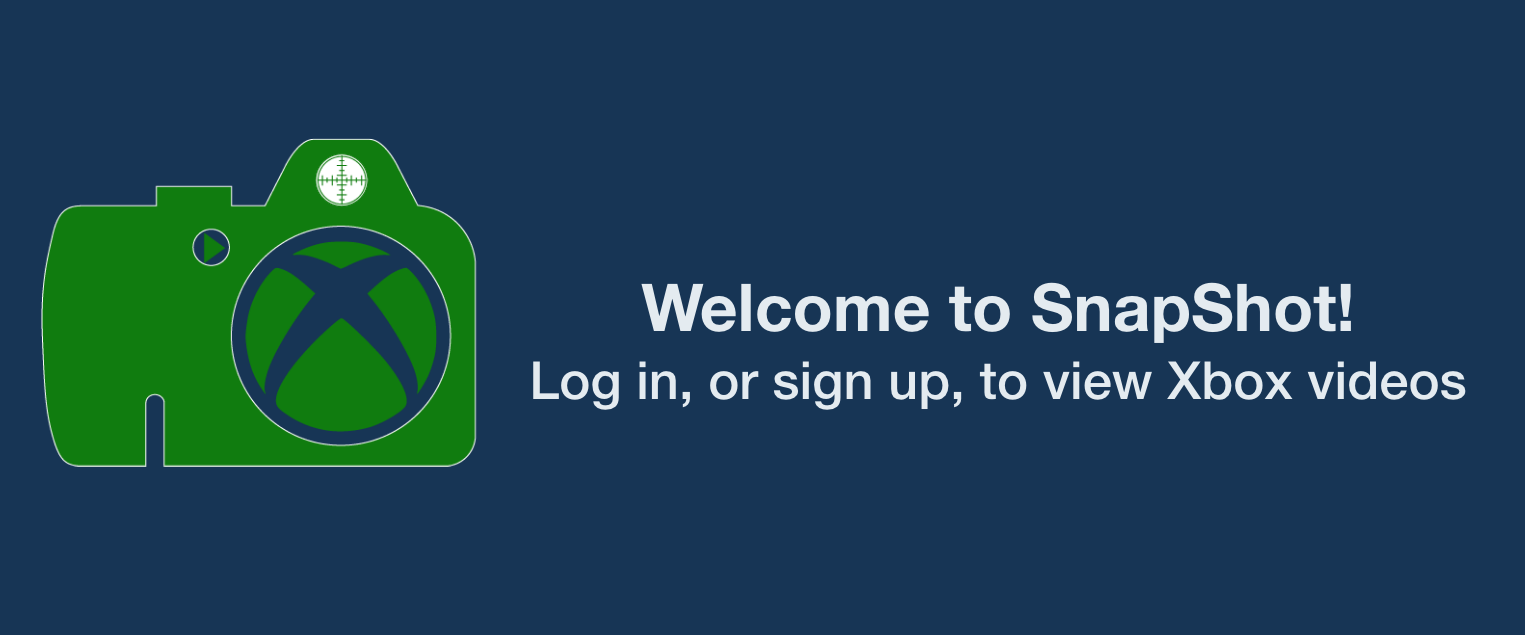
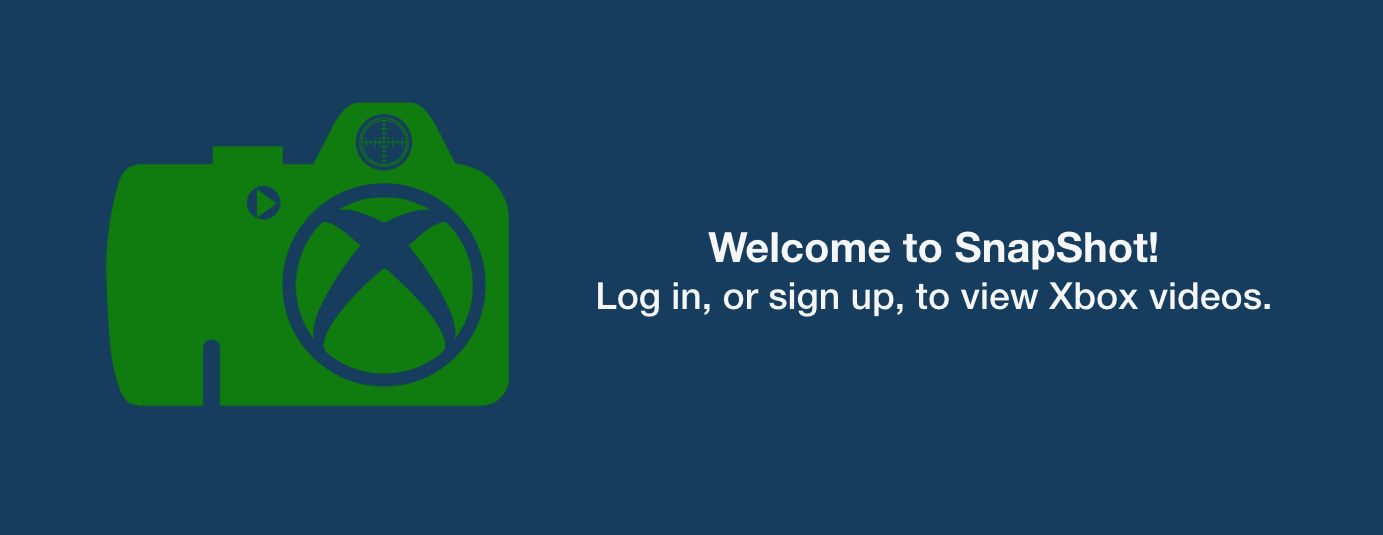
updated styling to welcome page, videos, and nav bar

Changed region(s): [[0.0, 0.1794, 0.9638, 0.7776]]

diff --git a/app/scripts/components/followers.jsx b/app/scripts/components/followers.jsx
@@ -41,7 +41,7 @@ var GamertagErrorModal = React.createClass({
   },
   closeModal: function(e) {
     this.setState({modalIsOpen: false});
-    // localStorage.setItem('loggedIn', this.state.username);
+
   },
   render: function(){
     return (
@@ -88,7 +88,7 @@ var UserDeletedErrorModal = React.createClass({
   },
   closeModal: function(e) {
     this.setState({modalIsOpen: false});
-    // localStorage.setItem('loggedIn', this.state.username);
+
   },
   render: function(){
     return (
@@ -155,15 +155,13 @@ var FollowerComponent = React.createClass({
   },
 
   componentWillReceiveProps: function(nextProps){
-    // console.log(nextProps.followers);
     this.setState({followers: nextProps.followers});
   },
   render: function(){
     var self = this;
     var followers = this.state.followers;
-    // console.log('map', followers);
+
     var followerList = followers.map(function(follower){
-      // console.log(follower);
       return (
         <div className='col-sm-6' key={follower.cid}>
           <a onClick={function(){self.props.handleFollower(follower.get('gamertag'))}} href={'#followers/' + follower.attributes.xuid + '/videos/'} className='' >
@@ -187,7 +185,7 @@ var FollowersContainer = React.createClass({
   getInitialState: function(){
     var followerCollection = new model.FollowerCollection;
     var objectId = JSON.parse(localStorage.getItem('user')).objectId;
-    // console.log('state', followerCollection);
+
     return {
       followerCollection: followerCollection,
       showForm: false,
@@ -206,14 +204,11 @@ var FollowersContainer = React.createClass({
     });
   },
 
-  parseSetup: function(token){
+  parseSetup: function(){
     $.ajaxSetup({
       beforeSend: function(xhr){
         xhr.setRequestHeader('X-Parse-Application-Id', 'kmbparse');
         xhr.setRequestHeader('X-Parse-REST-API-Key', 'kylesb');
-        // if(token){
-        //   xhr.setRequestHeader('X-Parse-Session-Token', token);
-        // }
       }
     });
   },
@@ -232,31 +227,7 @@ var FollowersContainer = React.createClass({
       self.setState({followerCollection: followerCollection});
 
     });
-// console.log(followerCollection);
-
-    // var self = this;
-    // var token = localStorage.getItem('token');
-    // var collection = this.state.followerCollection;
-    // var user = JSON.parse(localStorage.getItem('user')).objectId;
-    // console.log(user);
-    // this.setState({user : user});
-
-
-    // console.log(this.state.followerCollection);
-    // this.state.followerCollection.fetch().parseWhere('user', 'User', )
-    // this.setState({followerCollection: this.state.followerCollection});
-    // console.log('state', this.state.followerCollection);
   },
-
-  // componentDidMount: function(){
-  //  var self = this;
-    // var followerCollection = this.state.followerCollection;
-    //
-    //
-    // followerCollection.fetch().then(function(){
-    //   self.setState({followerCollection: followerCollection});
-    // });
-  // },
 
   handleToggleForm: function(e){
     e.preventDefault();

diff --git a/app/scripts/components/profile.jsx b/app/scripts/components/profile.jsx
@@ -71,30 +71,18 @@ var ProfileContainer = React.createClass({
     $.ajax(options).then(function(response) {
       console.log(response);
     })
-    // $.ajax({
-    //   url:"https://kevinbrowntown.herokuapp.com/users/" + this.state.objectId,
-    //   type: "PUT",
-    //   dataType: "json",
-    //   data: dataString,
-    //   "headers": {
-    //   "Content-Type": "application/json",
-    //   "X-Parse-REST-API-Key": "kylesb",
-    //   "X-Parse-Application-Id": "kmbparse",
-    //   "X-Parse-Session-Token": this.state.token
-    // }})
-    // .then(function(response){
-    //   console.log(response);
-    // })
   },
   render: function(){
     return (
       <TemplateComponent>
-        <img src={this.state.profilePic} alt="Profile Picture" />
-        <form onSubmit={this.handleUpdate}>
-          <input onChange={this.handleName} value={this.state.name}></input>
-          <input onChange={this.handleGamertag} value={this.state.gamertag}></input>
-          <button type="submit" className="btn btn-success">Update Profile</button>
-        </form>
+        <div className="friends-wrapper">
+          <img src={this.state.profilePic} alt="Profile Picture" />
+          <form onSubmit={this.handleUpdate}>
+            <input onChange={this.handleName} value={this.state.name}></input>
+            <input onChange={this.handleGamertag} value={this.state.gamertag}></input>
+            <button type="submit" className="btn btn-success">Update Profile</button>
+          </form>
+        </div>
       </TemplateComponent>
     )
   }

diff --git a/app/scripts/components/follower-videos.jsx b/app/scripts/components/follower-videos.jsx
@@ -86,11 +86,11 @@ componentWillMount: function(){
 
     return (
         <div>
-          <h3 className='title'>Clips saved by {follower}.</h3>
+          <h3 className=''>Clips saved by {follower}.</h3>
           <div className="pagenation col-sm-12">
-            <button type='button' className='btn btn-primary' onClick={this.handlePageLast}>Last Page</button>
+            <button type='button' className='btn btn-primary' onClick={this.handlePageLast}>Last</button>
             <h3>Page {pageNumber}</h3>
-            <button type='button' className='btn btn-primary' onClick={this.handlePageNext}>Next Page</button>
+            <button type='button' className='btn btn-primary' onClick={this.handlePageNext}>Next</button>
           </div>
           <div className='video-container'>
             <ul className='col-sm-12'>
@@ -98,9 +98,9 @@ componentWillMount: function(){
             </ul>
           </div>
           <div className="pagenation">
-            <button type='button' className='btn btn-primary' onClick={this.handlePageLast}>Last Page</button>
+            <button type='button' className='btn btn-primary' onClick={this.handlePageLast}>Last</button>
             <h3>Page {pageNumber}</h3>
-            <button type='button' className='btn btn-primary' onClick={this.handlePageNext}>Next Page</button>
+            <button type='button' className='btn btn-primary' onClick={this.handlePageNext}>Next</button>
           </div>
         </div>
     )

diff --git a/app/styles/app.scss b/app/styles/app.scss
@@ -20,15 +20,25 @@ $icon-font-path: '../../node_modules/bootstrap-sass/assets/fonts/bootstrap/';
 a:hover {
   color: white;
 }
-
+.nav {
+  text-transform: uppercase;
+  font-weight: 500;
+  text-shadow: 0 0 5px rgba(0, 0, 0, .4);
+}
 //welcome page
 .welcome-contain {
   background-image: url('../images/destiny-background.jpeg');
   background-size: cover;
-  height: 1075px;
+  min-height: 1075px;
   text-align: center;
 }
+@media (max-width: 768px) {
+  .welcome-contain {
+    background-size: cover;
+    background-position: center;
 
+  }
+}
 #signup, #login {
   color: white;
 }
@@ -72,11 +82,15 @@ a:hover {
   }
 }
 
-
+.game-title {
+  margin-left: 2px;
+  text-decoration: underline;
+}
 .header {
   text-align: center;
   height: 170px;
-  background-color: rgba(0, 0, 0, .3);
+  font-weight: 300;
+  text-shadow: 0 0 5px rgba(0, 0, 0, .4);
   margin-bottom: 30px;
   border-radius: 4px;
 
@@ -202,22 +216,18 @@ ul {
     }
   }
 }
-.liked-videos {
-  h3 {
 
-  }
-}
 .uservideos-title {
   text-align: center;
 }
 
 .video-container {
-  height: 5010.17px;
+  min-height: 5010.17px;
   margin-bottom: 30px;
 }
 @media (max-width: 768px) {
   .video-container {
-    height: 2559.23px;
+    min-height: 2059.23px;
   }
 }
 .pagenation {

diff --git a/app/scripts/components/likes.jsx b/app/scripts/components/likes.jsx
@@ -14,8 +14,7 @@ var VideosContainer = React.createClass({
     var videos = likeCollection.map(function(video){
       return (
         <div key={video.cid} className="liked-videos">
-          <h3 className='gamertag'>{video.get('gamertag')}</h3>
-          <h3>{video.get('title')}</h3>
+          <h3 className='gamertag'><span>{video.get('gamertag')}</span>:  <span className='game-title'>{video.get('title')}</span></h3>
           <div className="embed-responsive embed-responsive-16by9">
             <li className='videos'>
               <video src={video.get('url')} width="520" height="440" controls></video>

diff --git a/app/scripts/components/welcome.jsx b/app/scripts/components/welcome.jsx
@@ -7,6 +7,7 @@ var TemplateComponent = require('./welcome-template.jsx');
 var ReactSlickDemo = React.createClass({
   render: function() {
       const settings = {
+        variableHeight: true,
         infinite: true,
         slidesToShow: 1,
         slidesToScroll: 1,
